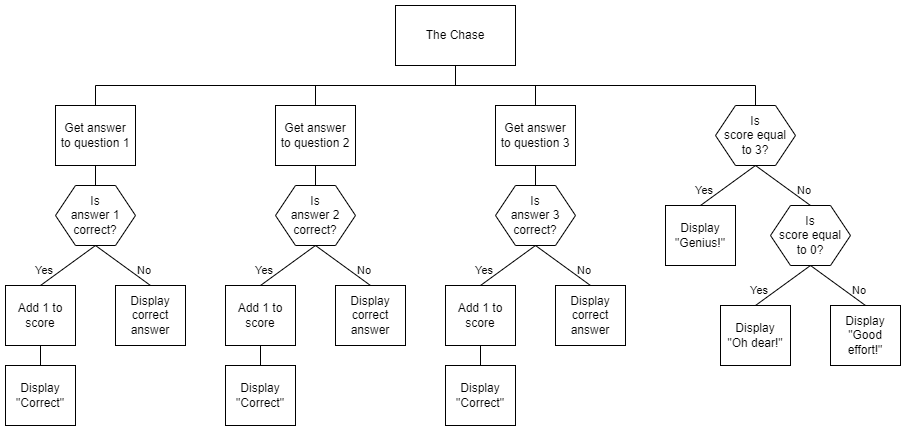
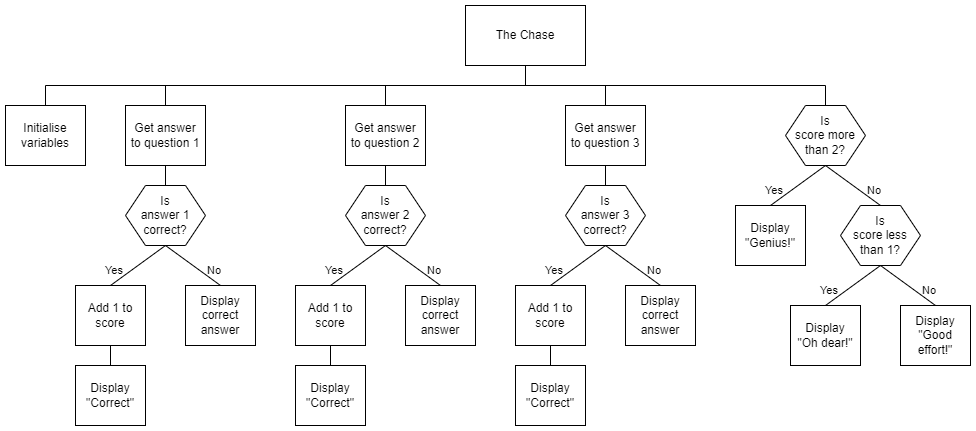
Updated task

diff --git a/n5/N5-SDD-The-Chase/instructions.md b/n5/N5-SDD-The-Chase/instructions.md
@@ -7,16 +7,15 @@ A popular TV quiz show was planning on coming to Barra.  Unfortunately, due to a
 
 To save the day you are to produce a program that will ask questions, show the correct answers if wrong, and then give a result.
 
-As a proof of concept, the initial program will ask three questions.
-
-There is a structure diagram and an example of the user interface.
+As a proof of concept, the initial program will ask three questions.  Implement the design shown below.
 
 
-## Structure Diagram
+## Top level design (Structure diagram)
 
 ![Structure Diagram](assets/sd.png)
 
-## Example User Interface
+
+### Example User Interface
 
 ```
 What animal says 'meow'? cat
